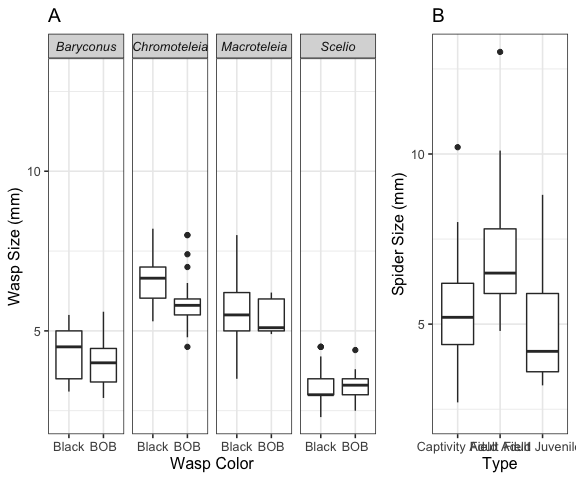
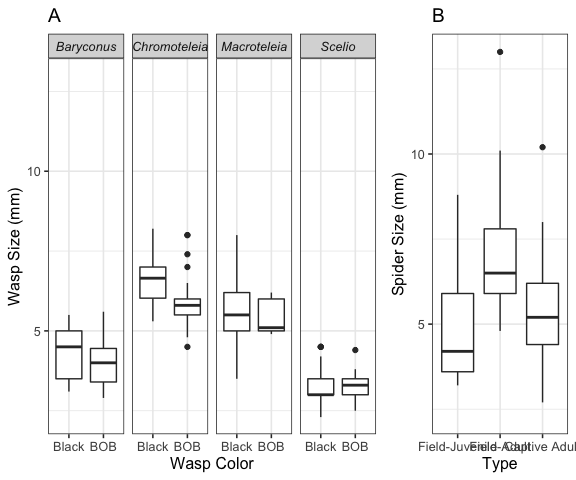
update plots

diff --git a/report2.md b/report2.md
@@ -80,6 +80,11 @@ source(file="read_data.R")
     ## * ...
 
 ``` r
+datos <- datos %>%
+  mutate(s_type=recode_factor(s_type,
+            "Field Juvenile"="Field-Juvenile",
+            "Field Adult"="Field-Adult",
+            "Captivity Adult"="Captive Adult")) 
 resumen <- datos %>% group_by(ID) %>%
   summarise(type=(unique(type)),
             typegr=(unique(typegr)),
@@ -115,10 +120,10 @@ ftable(table(resumen$w_color,resumen$typegr))
 ftable(table(resumen$w_color,resumen$s_type))
 ```
 
-    ##        Captivity Adult Field Adult Field Juvenile
-    ##                                                  
-    ## Black                8          36             25
-    ## BOB                  9          32             26
+    ##        Field-Juvenile Field-Adult Captive Adult
+    ##                                                
+    ## Black              25          36             8
+    ## BOB                26          32             9
 
 ``` r
 bp1 <- ggplot(resumen, aes(x=w_color, y=w_size)) + 
@@ -162,13 +167,13 @@ summary(lm(s_size~w_size*s_type, data=resumen))
     ## -2.6473 -1.1202 -0.3064  0.8690  6.2731 
     ## 
     ## Coefficients:
-    ##                             Estimate Std. Error t value Pr(>|t|)    
-    ## (Intercept)                   6.6621     1.1524   5.781 5.22e-08 ***
-    ## w_size                       -0.2459     0.2379  -1.033   0.3033    
-    ## s_typeField Adult            -0.2248     1.3636  -0.165   0.8693    
-    ## s_typeField Juvenile         -2.8205     1.3901  -2.029   0.0445 *  
-    ## w_size:s_typeField Adult      0.3617     0.2809   1.288   0.2002    
-    ## w_size:s_typeField Juvenile   0.4295     0.2740   1.567   0.1194    
+    ##                            Estimate Std. Error t value Pr(>|t|)    
+    ## (Intercept)                 3.84156    0.77749   4.941 2.35e-06 ***
+    ## w_size                      0.18360    0.13588   1.351   0.1790    
+    ## s_typeField-Adult           2.59571    1.06576   2.436   0.0162 *  
+    ## s_typeCaptive Adult         2.82049    1.39012   2.029   0.0445 *  
+    ## w_size:s_typeField-Adult   -0.06774    0.20192  -0.335   0.7378    
+    ## w_size:s_typeCaptive Adult -0.42949    0.27400  -1.567   0.1194    
     ## ---
     ## Signif. codes:  0 '***' 0.001 '**' 0.01 '*' 0.05 '.' 0.1 ' ' 1
     ## 
@@ -205,14 +210,14 @@ datos_model <- inner_join(datos2, resumen, by="ID")
 with(datos_model, ftable(h_resp3,w_color, s_type)) 
 ```
 
-    ##                 s_type Captivity Adult Field Adult Field Juvenile
-    ## h_resp3 w_color                                                  
-    ## Attack  Black                        2           3              3
-    ##         BOB                          2           0              4
-    ## Detect  Black                        6          23             19
-    ##         BOB                          5          28             18
-    ## Avoid   Black                        0          10              3
-    ##         BOB                          2           4              4
+    ##                 s_type Field-Juvenile Field-Adult Captive Adult
+    ## h_resp3 w_color                                                
+    ## Attack  Black                       3           3             2
+    ##         BOB                         4           0             2
+    ## Detect  Black                      19          23             6
+    ##         BOB                        18          28             5
+    ## Avoid   Black                       3          10             0
+    ##         BOB                         4           4             2
 
 ``` r
 with(datos_model, ftable(h_resp3,w_color, type)) 
@@ -234,13 +239,24 @@ where the most common activity for each spider was classified as
 “detect”, “attack” or “avoid”. A summary of the data included in the
 final model is presented in Figure 4. Note that in this figure the
 number of spiders differs between groups, which is why the bar for
-lab-reared (captivity) adults is thinner than the ones for field adults
+lab-reared (captive) adults is thinner than the ones for field adults
 and field juveniles. The full model includes the following covariates:
 wasp color, spider type, wasp size, spider size, wasp genus and
 presence/absence of silk dragline. This model was compared with
 simplified versions, with the result being that the model with
 presence/absence of silk dragline and spider type was the model with the
 best fit (AIC = 212.09).
+
+``` r
+datos_model$h_resp3 <- relevel(as.factor(datos_model$h_resp3), 
+                               ref = "Attack")
+test00 <- multinom(h_resp3 ~ drag+s_type, data = datos_model)
+test01 <- multinom(h_resp3 ~ s_type, data = datos_model)
+test02 <- multinom(h_resp3 ~ s_type + w_color + type, data = datos_model)
+test03 <- multinom(h_resp3 ~ s_type*w_color*type, data = datos_model)
+test04 <- multinom(h_resp3 ~ s_type+w_color+s_size+w_size+drag+type, data = datos_model)
+test05 <- multinom(h_resp3 ~ 1, data = datos_model)
+```
 
 ``` r
 c(test00$AIC,test01$AIC,test02$AIC,
@@ -258,14 +274,14 @@ summary(test)
     ## multinom(formula = h_resp3 ~ drag + s_type, data = datos_model)
     ## 
     ## Coefficients:
-    ##        (Intercept)     drag s_typeField Adult s_typeField Juvenile
-    ## Detect   -2.636693 1.824126          2.272735             1.044499
-    ## Avoid    -3.612583 1.459788          2.637445             1.044348
+    ##        (Intercept)     drag s_typeField-Adult s_typeCaptive Adult
+    ## Detect   -1.591937 1.824009          1.228139           -1.044539
+    ## Avoid    -2.568090 1.459765          1.592933           -1.044696
     ## 
     ## Std. Errors:
-    ##        (Intercept)      drag s_typeField Adult s_typeField Juvenile
-    ## Detect    1.623456 0.7574136         0.8922031            0.7584938
-    ## Avoid     2.044980 0.9262859         1.1240895            1.0509210
+    ##        (Intercept)      drag s_typeField-Adult s_typeCaptive Adult
+    ## Detect    1.365618 0.7574176         0.7471907           0.7584901
+    ## Avoid     1.720320 0.9262931         0.8478523           1.0509646
     ## 
     ## Residual Deviance: 196.0992 
     ## AIC: 212.0992
@@ -276,17 +292,17 @@ p <- (1 - pnorm(abs(z), 0, 1)) * 2
 p
 ```
 
-    ##        (Intercept)       drag s_typeField Adult s_typeField Juvenile
-    ## Detect   0.1043495 0.01602432        0.01085508            0.1684905
-    ## Avoid    0.0773017 0.11503547        0.01896110            0.3203470
+    ##        (Intercept)       drag s_typeField-Adult s_typeCaptive Adult
+    ## Detect   0.2437251 0.01603161        0.10024325           0.1684721
+    ## Avoid    0.1354902 0.11504385        0.06027368           0.3202054
 
 ``` r
 exp(summary(test)$coefficients)
 ```
 
-    ##        (Intercept)     drag s_typeField Adult s_typeField Juvenile
-    ## Detect  0.07159762 6.197373          9.705915             2.841976
-    ## Avoid   0.02698206 4.305046         13.977451             2.841544
+    ##        (Intercept)     drag s_typeField-Adult s_typeCaptive Adult
+    ## Detect  0.20353107 6.196653          3.414869           0.3518539
+    ## Avoid   0.07668187 4.304950          4.918155           0.3517986
 
 According to the aforementioned model, being a field adult is a
 significant factor for increasing the odds of detecting versus attacking
@@ -305,15 +321,16 @@ wasps, and adults reared in captivity avoided only BOB wasps.
 
 ``` r
 datos_model <- datos_model %>%
-  mutate(h_resp3=recode_factor(h_resp3, "Detect"="Detect",
-                                "Attack"="Attack",
-                                "Avoid"="Avoid"))
+  mutate(h_resp3=recode_factor(h_resp3, "Detect"="Detect","Attack"="Attack","Avoid"="Avoid"))
 ggplot(data = datos_model) +
   geom_mosaic(aes(x = product(h_resp3, s_type), 
-                  fill=w_color), 
-              na.rm=TRUE, divider=mosaic("v")) +  
+              fill=w_color), 
+              show.legend=TRUE,
+              na.rm=TRUE, 
+              divider=mosaic("v")) +  
   theme(legend.position = "none") +
-  scale_fill_manual(values=c("#999999", "#E69F00")) +labs(x = "Action", title='', y="")
+  scale_fill_manual(values=c("#999999", "#E69F00")) +
+  labs(x = "Action", title='', y="")
 ```
 
 ![](report2_files/figure-markdown_github/unnamed-chunk-7-1.png)
@@ -328,11 +345,7 @@ datos <- datos %>% mutate(time3= recode_factor(time2,
           "10-20 min" = "10-20 min",
           "20-30 min" = "20-30 min",
           "30-40 min" = "30-40 min"))
-dat<-datos[datos$h_resp3=="Detect",] %>%
-  mutate(s_type=recode_factor(s_type,
-                              "Wild Juvenile"="Field-Juvenile",
-                              "Wild Adult"="Field-Adult",
-                              "Adult Captivity"="Captivity-Adult")) 
+dat<-datos[datos$h_resp3=="Detect",] 
 
 ta1<- ggplot(data = dat) +
   geom_mosaic(data=dat,aes(x = product(w_color, time3), 
@@ -344,11 +357,7 @@ ta1<- ggplot(data = dat) +
   theme(legend.position = "none") +
   theme(axis.text.x = element_text(angle = 45, hjust = 1))
 
-dat<-datos[datos$h_resp3=="Attack",] %>%
-  mutate(s_type=recode_factor(s_type,
-                              "Wild Juvenile"="Field-Juvenile",
-                              "Wild Adult"="Field-Adult",
-                              "Adult Captivity"="Captivity-Adult")) 
+dat<-datos[datos$h_resp3=="Attack",] 
 
 ta2<- ggplot(data = dat) +
   geom_mosaic(data=dat,aes(x = product(w_color, time3), 
@@ -360,11 +369,7 @@ ta2<- ggplot(data = dat) +
   theme(legend.position = "none") +
   theme(axis.text.x = element_text(angle = 45, hjust = 1))
 
-dat<-datos[datos$h_resp3=="Avoid",] %>%
-  mutate(s_type=recode_factor(s_type,
-                              "Wild Juvenile"="Field-Juvenile",
-                              "Wild Adult"="Field-Adult",
-                              "Adult Captivity"="Captivity-Adult")) 
+dat<-datos[datos$h_resp3=="Avoid",] 
 
 ta3<- ggplot(data = dat) +
   geom_mosaic(data=dat,aes(x = product(w_color, time3), 
@@ -385,11 +390,7 @@ grid.arrange(ta1, ta2, ta3, nrow = 3)
 
 ``` r
 options <- sort(unique(datos$h_resp3))
-dat<-datos[datos$h_resp3=="Detect",] %>%
-  mutate(s_type=recode_factor(s_type,
-                              "Wild Juvenile"="Field-Juvenile",
-                              "Wild Adult"="Field-Adult",
-                              "Adult Captivity"="Captivity-Adult")) %>% 
+dat<-datos[datos$h_resp3=="Detect",] %>% 
   group_by(s_type, w_color, time3) %>% summarise(n=n())
 ```
 
@@ -404,11 +405,7 @@ t1<-   ggplot(data=dat, aes(x=time3, y=n, fill=w_color)) +
   #theme(legend.position = "none") +
   theme(axis.text.x = element_text(angle = 45, hjust = 1))
 
-dat<-datos[datos$h_resp3=="Attack",] %>%
-  mutate(s_type=recode_factor(s_type,
-                              "Wild Juvenile"="Field-Juvenile",
-                              "Wild Adult"="Field-Adult",
-                              "Adult Captivity"="Captivity-Adult")) %>% 
+dat<-datos[datos$h_resp3=="Attack",]  %>% 
   group_by(s_type, w_color, time3) %>% summarise(n=n())
 ```
 
@@ -423,11 +420,7 @@ t2<-  ggplot(data=dat, aes(x=time3, y=n, fill=w_color)) +
   #theme(legend.position = "none") +
   theme(axis.text.x = element_text(angle = 45, hjust = 1))
   
-dat<-datos[datos$h_resp3=="Avoid",] %>%
-  mutate(s_type=recode_factor(s_type,
-                              "Wild Juvenile"="Field-Juvenile",
-                              "Wild Adult"="Field-Adult",
-                              "Adult Captivity"="Captivity-Adult")) %>% 
+dat<-datos[datos$h_resp3=="Avoid",]  %>% 
   group_by(s_type, w_color, time3) %>% summarise(n=n())
 ```
 
@@ -493,17 +486,17 @@ ftable(table(datos_model$h_resp3,
              datos_model$w_color))
 ```
 
-    ##                         Black BOB
-    ##                                  
-    ## Detect Captivity Adult      6   5
-    ##        Field Adult         23  28
-    ##        Field Juvenile      19  18
-    ## Attack Captivity Adult      2   2
-    ##        Field Adult          3   0
-    ##        Field Juvenile       3   4
-    ## Avoid  Captivity Adult      0   2
-    ##        Field Adult         10   4
-    ##        Field Juvenile       3   4
+    ##                        Black BOB
+    ##                                 
+    ## Detect Field-Juvenile     19  18
+    ##        Field-Adult        23  28
+    ##        Captive Adult       6   5
+    ## Attack Field-Juvenile      3   4
+    ##        Field-Adult         3   0
+    ##        Captive Adult       2   2
+    ## Avoid  Field-Juvenile      3   4
+    ##        Field-Adult        10   4
+    ##        Captive Adult       0   2
 
 ``` r
 datos_model <- datos_model %>%
@@ -624,7 +617,7 @@ done using the nnet package (Venables et al, 2002).
 Colophon
 ========
 
-This report was generated on 2020-09-19 14:58:11 using the following
+This report was generated on 2020-09-22 16:48:02 using the following
 computational environment and dependencies:
 
 ``` r
@@ -642,7 +635,7 @@ if ("devtools" %in% installed.packages()) devtools::session_info()
     ##  collate  en_US.UTF-8                 
     ##  ctype    en_US.UTF-8                 
     ##  tz       America/Costa_Rica          
-    ##  date     2020-09-19                  
+    ##  date     2020-09-22                  
     ## 
     ## ─ Packages ───────────────────────────────────────────────────────────────────
     ##  package      * version  date       lib source        
@@ -657,6 +650,7 @@ if ("devtools" %in% installed.packages()) devtools::session_info()
     ##  cli            2.0.2    2020-02-28 [1] CRAN (R 4.0.2)
     ##  colorspace     1.4-1    2019-03-18 [1] CRAN (R 4.0.2)
     ##  crayon         1.3.4    2017-09-16 [1] CRAN (R 4.0.2)
+    ##  curl           4.3      2019-12-02 [1] CRAN (R 4.0.1)
     ##  data.table     1.13.0   2020-07-24 [1] CRAN (R 4.0.2)
     ##  DBI            1.1.0    2019-12-15 [1] CRAN (R 4.0.2)
     ##  dbplyr         1.4.4    2020-05-27 [1] CRAN (R 4.0.2)
@@ -759,4 +753,4 @@ if ("git2r" %in% installed.packages() & git2r::in_repository(path = ".")) git2r:
 
     ## Local:    master /Users/marce/Dropbox/Mora_CICIMA2
     ## Remote:   master @ origin (git@github.com:malfaro2/Mora_et_al2.git)
-    ## Head:     [bac9b2c] 2020-09-15: Update README.md
+    ## Head:     [43c4dd5] 2020-09-19: links
